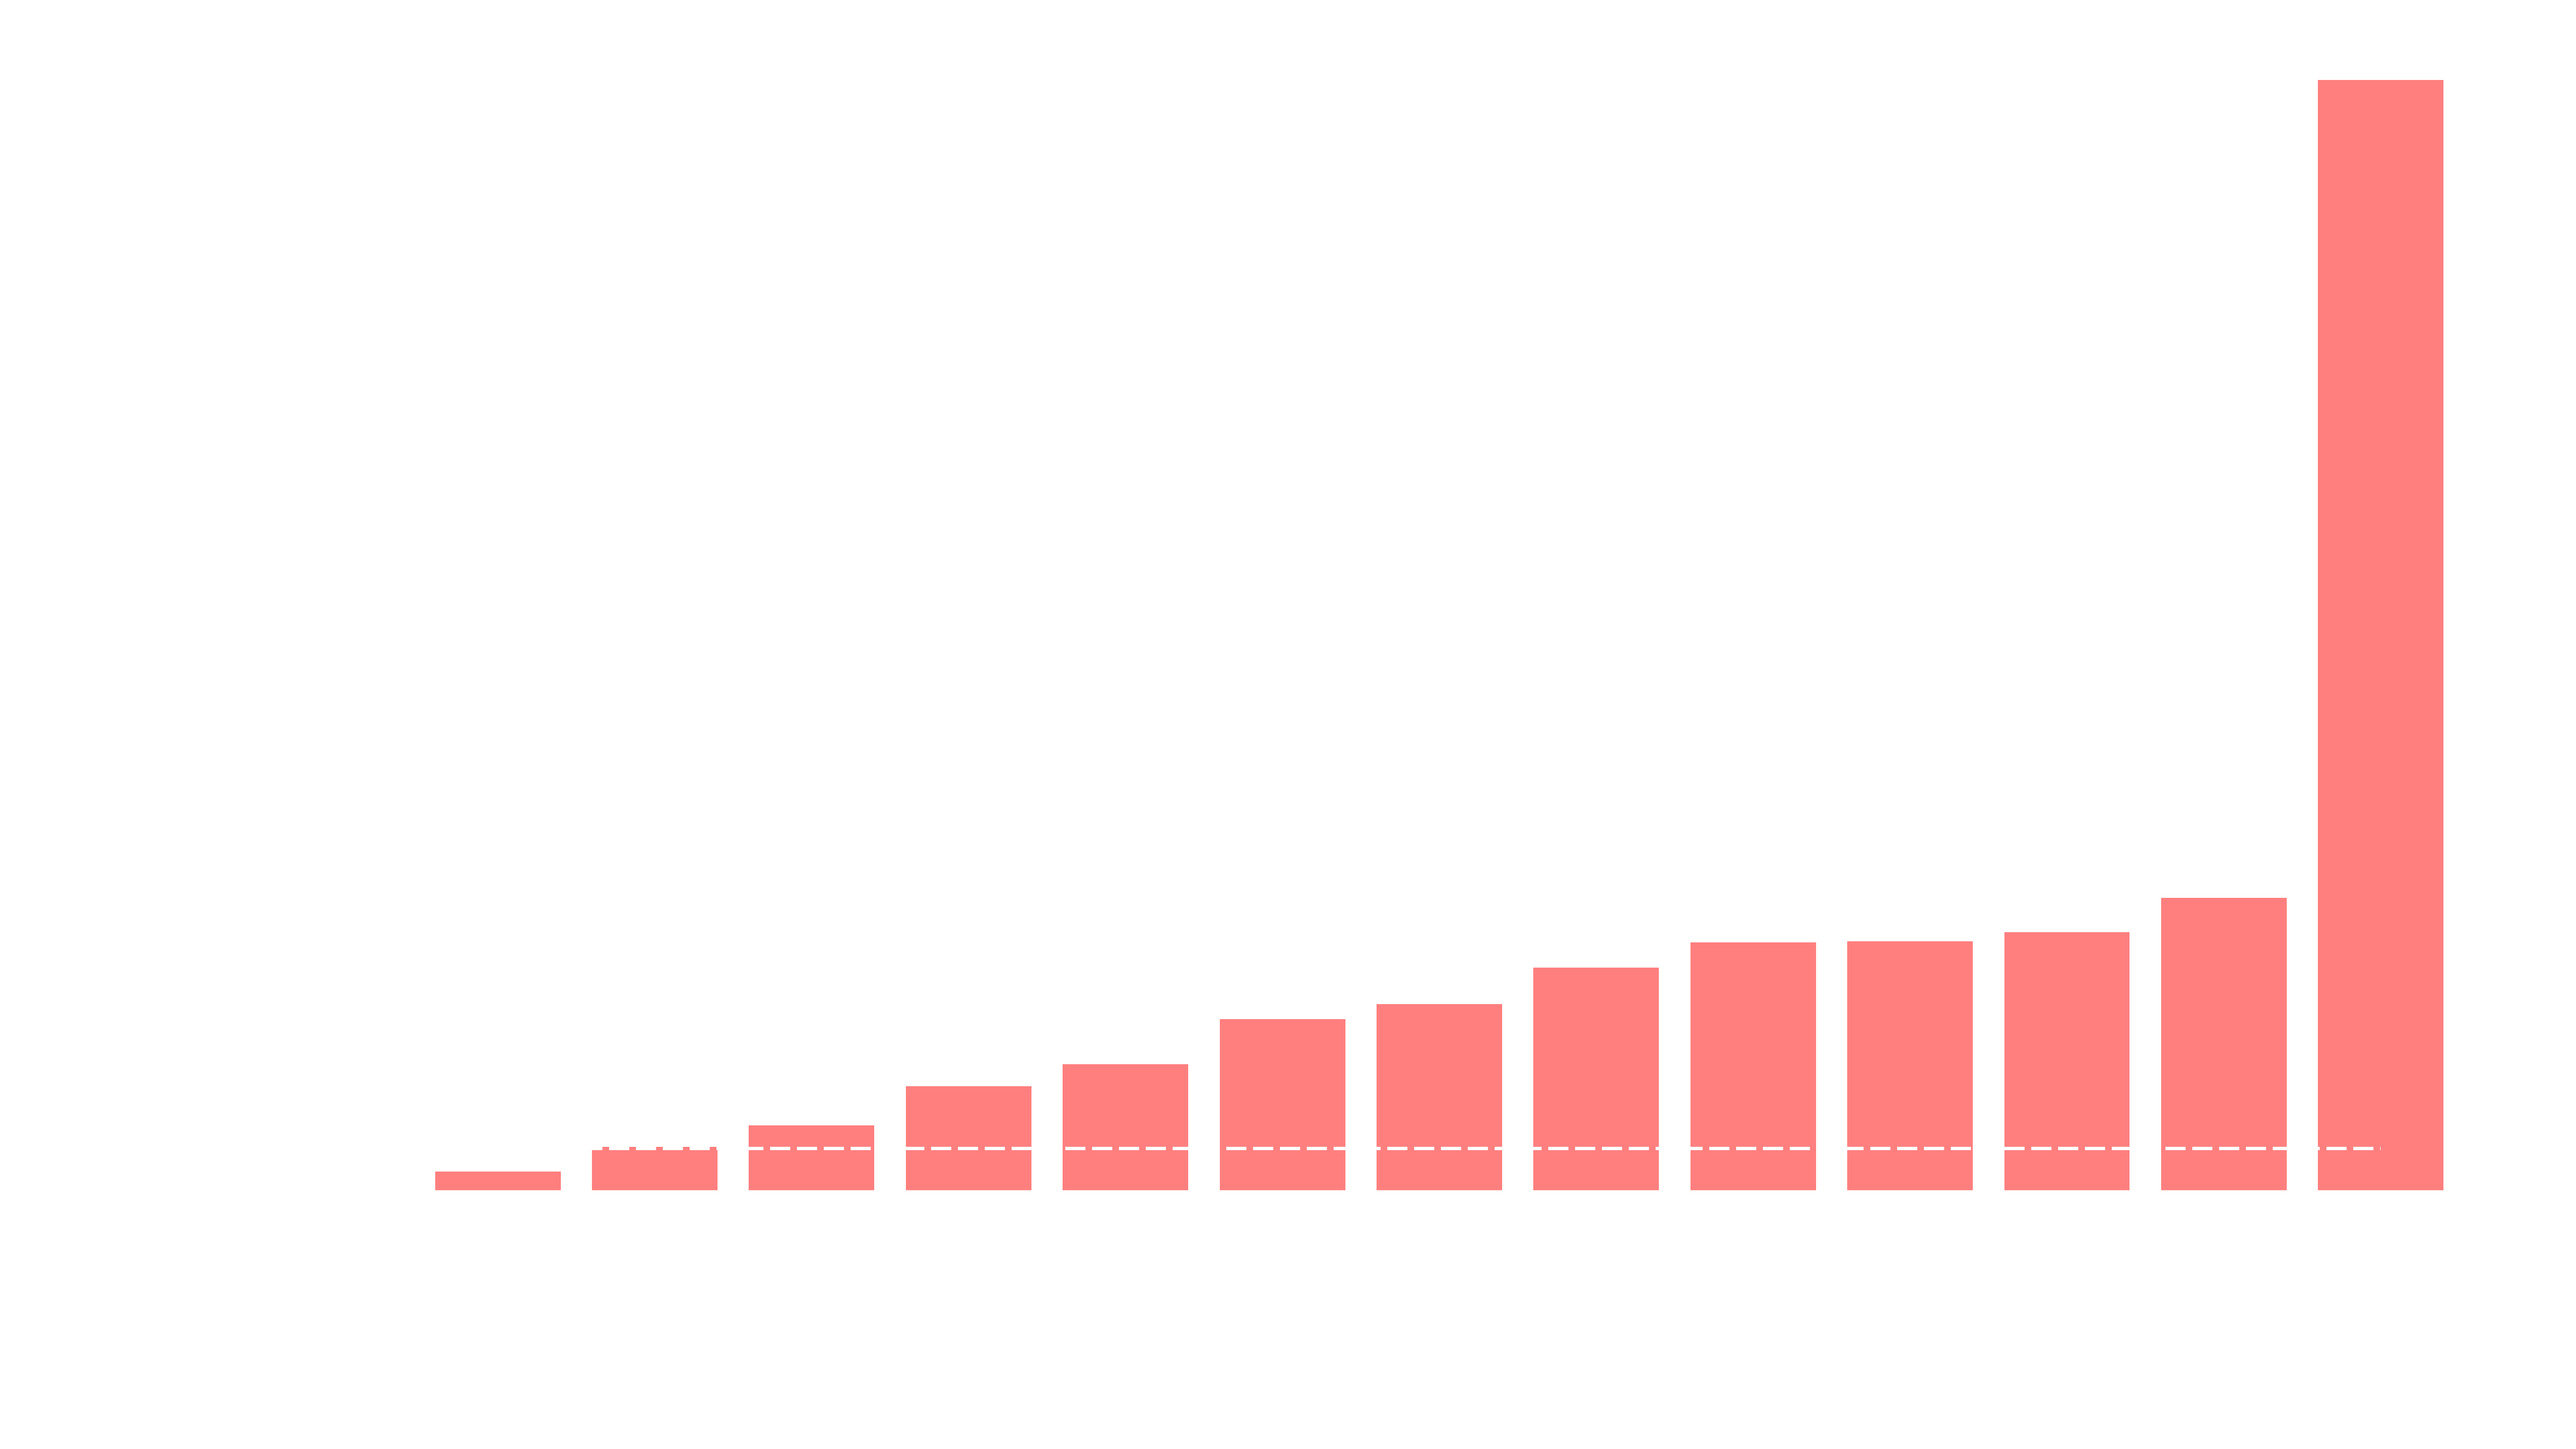
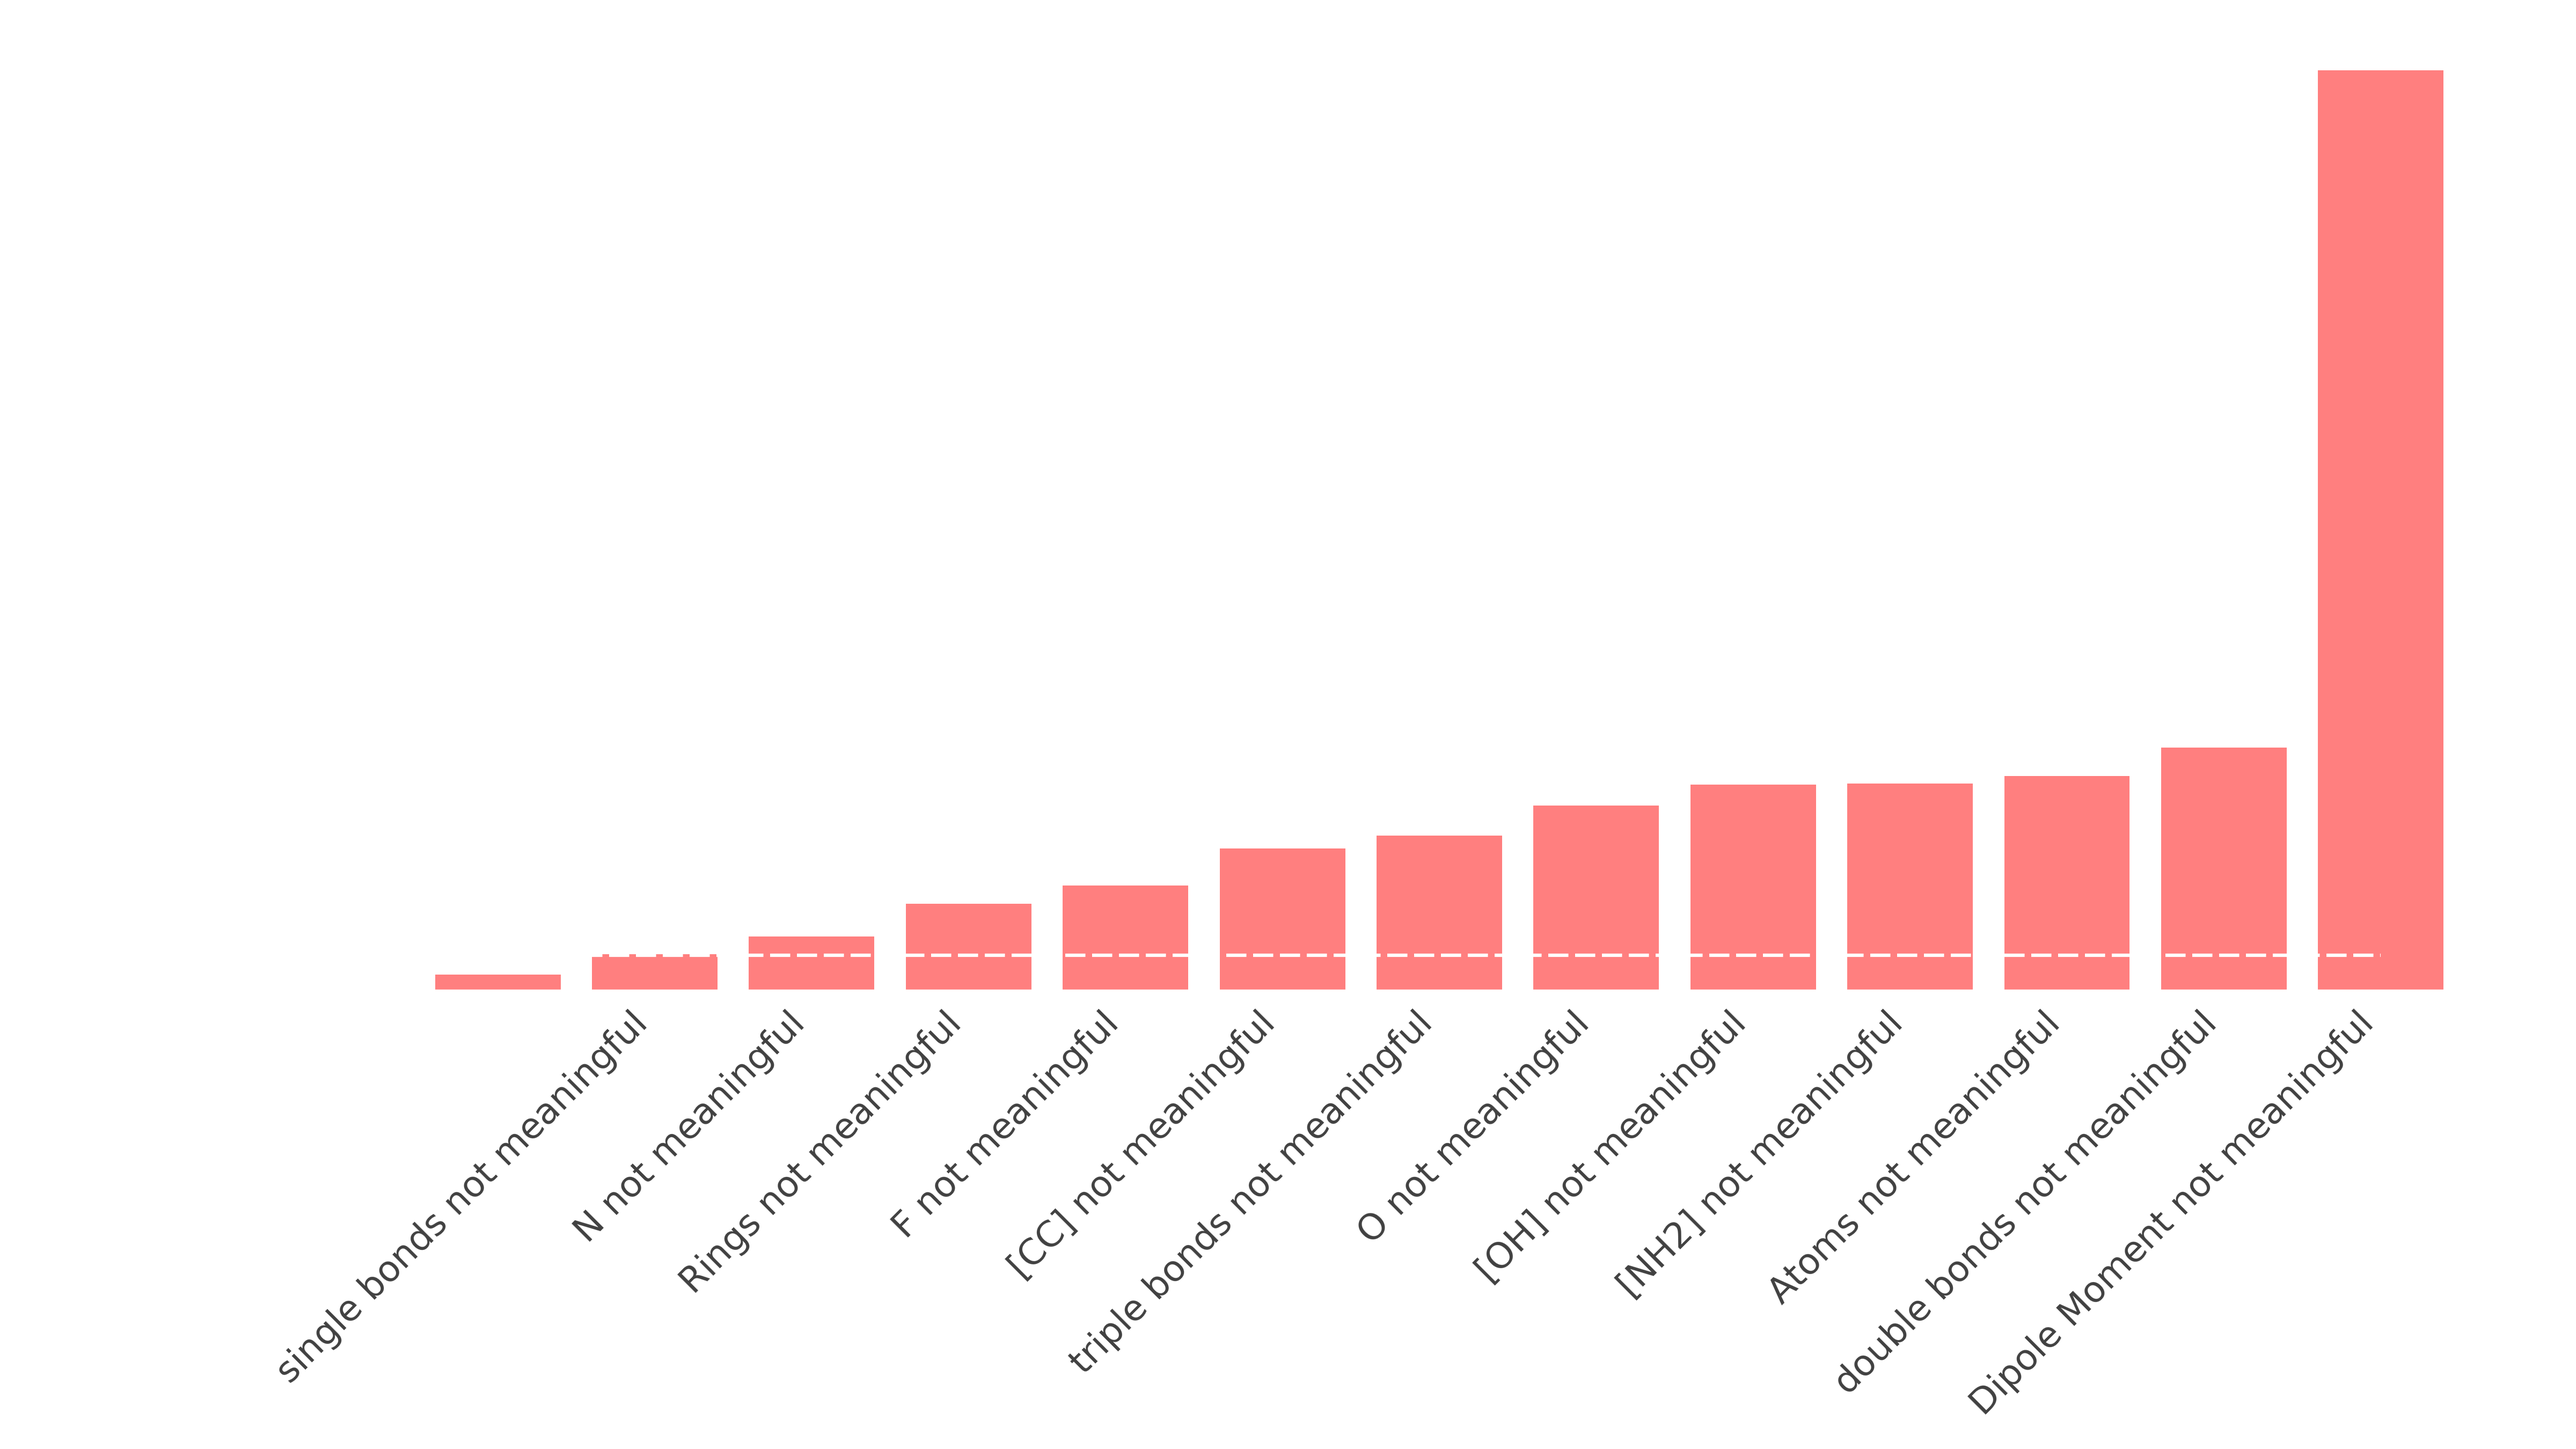
Fixed xtick labels in plotting so that they're more useful when automatically generated and updated summary method for each label type so that it can provide a sentence saying that a property is not meaningful if requested.

diff --git a/tests/tests.py b/tests/tests.py
@@ -27,7 +27,7 @@ class TestMolecule(unittest.TestCase):
 
 class TestFingerprint(unittest.TestCase):
     def test_fingerprint(self):
-        assert Fingerprint(name="Contains C",
+        assert Fingerprint(property="Contains C",
                     context="molecule",
                     verb="are",
                     label_type="binary",
@@ -41,8 +41,8 @@ class TestBinaryLabel(unittest.TestCase):
         assert binary.av == 1, "Binary label averaging not working."
     def test_entropy(self):
         assert binary.entropy == 0, "Entropy testing for Binary labels not working."
-    def test_name(self):
-        assert binary.property == "binary", "Binary name not working properly."
+    def test_property(self):
+        assert binary.property == "binary", "Binary property (name) not working properly."
 
 class TestMulticlassLabel(unittest.TestCase):
     global multi
@@ -51,8 +51,8 @@ class TestMulticlassLabel(unittest.TestCase):
         assert multi.av == 4, "Multiclass label averaging not working."
     def test_entropy(self):
         assert multi.entropy != 0, "Entropy testing for Multiclass labels not working."
-    def test_name(self):
-        assert multi.name == "multi", "Multiclass label name not working properly."
+    def test_property(self):
+        assert multi.property == "multi", "Multiclass label property (name) not working properly."
 
 class TestContinuousclassLabel(unittest.TestCase):
     global cont
@@ -61,8 +61,8 @@ class TestContinuousclassLabel(unittest.TestCase):
         assert cont.av == 4.5, "Continuous label averaging not working."
     def test_entropy(self):
         assert cont.entropy != 0, "Entropy testing for Continuous labels not working."
-    def test_name(self):
-        assert cont.name == "cont", "Continuous label name not working properly."
+    def test_property(self):
+        assert cont.property == "cont", "Continuous label property not working properly."
 
 class TestMolSet(unittest.TestCase):
     global analysis

diff --git a/exmoset/labels/multiclass.py b/exmoset/labels/multiclass.py
@@ -5,12 +5,12 @@ class Multiclass(Label):
     """
     Class that handles the manipulation of multiclass molecular labels.
     """
-    def __init__(self,name,
+    def __init__(self,property,
                       values,
                       verb="contain",
                       noun="Molecules",
                       sensitivity=0.1):
-        self.name        = name
+        self.property    = property
         self.noun        = noun
         self.verb        = verb
         self.values      = values
@@ -18,15 +18,17 @@ class Multiclass(Label):
         self.av          = np.int(np.mean(values))
         self.entropy     = self.entropy()
 
-    def summary(self,sensitivity=None):
+    def summary(self,sensitivity=None,unimportant_label=False):
         """
         A multiclass label summary.
 
         Grammatical Structure
-        <noun> <verb> <average> <name>
+        <noun> <verb> <average> <property>
         """
         if not sensitivity:
             sensitivity = self.sensitivity
         if self.entropy < sensitivity:
-            description = f"{self.noun} {self.verb} {self.av} {self.name}"
+            description = f"{self.noun} {self.verb} {self.av} {self.property}"
             return description
+        elif unimportant_label:
+            return f"{self.property} not meaningful"

diff --git a/exmoset/labels/continuous.py b/exmoset/labels/continuous.py
@@ -6,12 +6,12 @@ class Continuous(Label):
     """
     Class that handles the manipulation of continuous molecular labels.
     """
-    def __init__(self,name,
+    def __init__(self,property,
                       values,
                       verb="share",
                       noun='Atoms',
                       sensitivity=0.1):
-        self.name        = name
+        self.property    = property
         self.values      = values
         self.noun        = noun
         self.sensitivity = sensitivity
@@ -25,7 +25,7 @@ class Continuous(Label):
         ent = continuous.get_h(self.values,k=k,norm=norm,min_dist=min_dist)
         return ent
 
-    def summary(self,sensitivity=None):
+    def summary(self,sensitivity=None,unimportant_label=False):
         """
         A continuous label summary.
 
@@ -35,4 +35,6 @@ class Continuous(Label):
         if not sensitivity:
             sensitivity = self.sensitivity
         if self.entropy < sensitivity:
-            return f"{self.noun} share a similar {self.name} centred around {self.av:.4f}"
+            return f"{self.noun} share a similar {self.property} centred around {self.av:.4f}"
+        elif unimportant_label:
+            return f"{self.property} not meaningful"

diff --git a/exmoset/molset.py b/exmoset/molset.py
@@ -134,7 +134,11 @@ class MolSet():
         label_dict_sorted    = {key : val for key, val in sorted(label_dict_sorted.items(), key=lambda item: item[1])}
         plt.style.use("exmoset/utils/matplotlibrc")
         plt.bar(range(len(label_dict_sorted)), [x[0] for x in label_dict_sorted.values()], align="center",alpha=0.5,color="r")
-        plt.xticks(range(len(label_dict_sorted)), list(label_dict_sorted.keys()), rotation=45, ha='right')
+        labels = [self.label_dict[key].summary(unimportant_label=True) for key in label_dict_sorted]
+        colors = ["#404040" if "not meaningful" in label else "#FFFFFF" for label in labels ]
+        plt.xticks(range(len(label_dict_sorted)), labels, rotation=45, ha='right')
+        for label, color in zip(plt.gca().get_xticklabels(),colors):
+            label.set_color(color)
         plt.ylabel("Entropy",fontsize=30)
         plt.plot(range(len(label_dict_sorted)), [x[1] for x in label_dict_sorted.values()], dashes=[6,2],color='w')
         plt.tight_layout()

diff --git a/exmoset/labels/binary.py b/exmoset/labels/binary.py
@@ -18,7 +18,7 @@ class Binary(Label):
         self.av          = np.round(np.mean(values))
         self.entropy     = self.entropy()
 
-    def summary(self,sensitivity=None):
+    def summary(self,sensitivity=None,unimportant_label=False):
         """
         A binary label summary.
 
@@ -33,3 +33,5 @@ class Binary(Label):
         if self.entropy < sensitivity:
             description = f"{self.noun} {self.verb} {self.property}"
             return description if self.av > 0.5 else self.neg(description)
+        elif unimportant_label:
+            return f"{self.property} not meaningful"

diff --git a/README.md b/README.md
@@ -66,5 +66,5 @@ All nouns are pluran
 
 ## TODO
 1. Could I add mutual information to examine subsets of the parent set? For example the subset formed by generate_outliers?
-2. Fix plotting so that it generates useful labels on the bottom.
-3. Possibly could add an extra intermediate object to label calculation that makes the data available to multiple calculators.
+2. Possibly could add an extra intermediate object to label calculation that makes the data available to multiple calculators.
+   1. This could be hacked in simply by creating a new molecular representation that is in this form.
